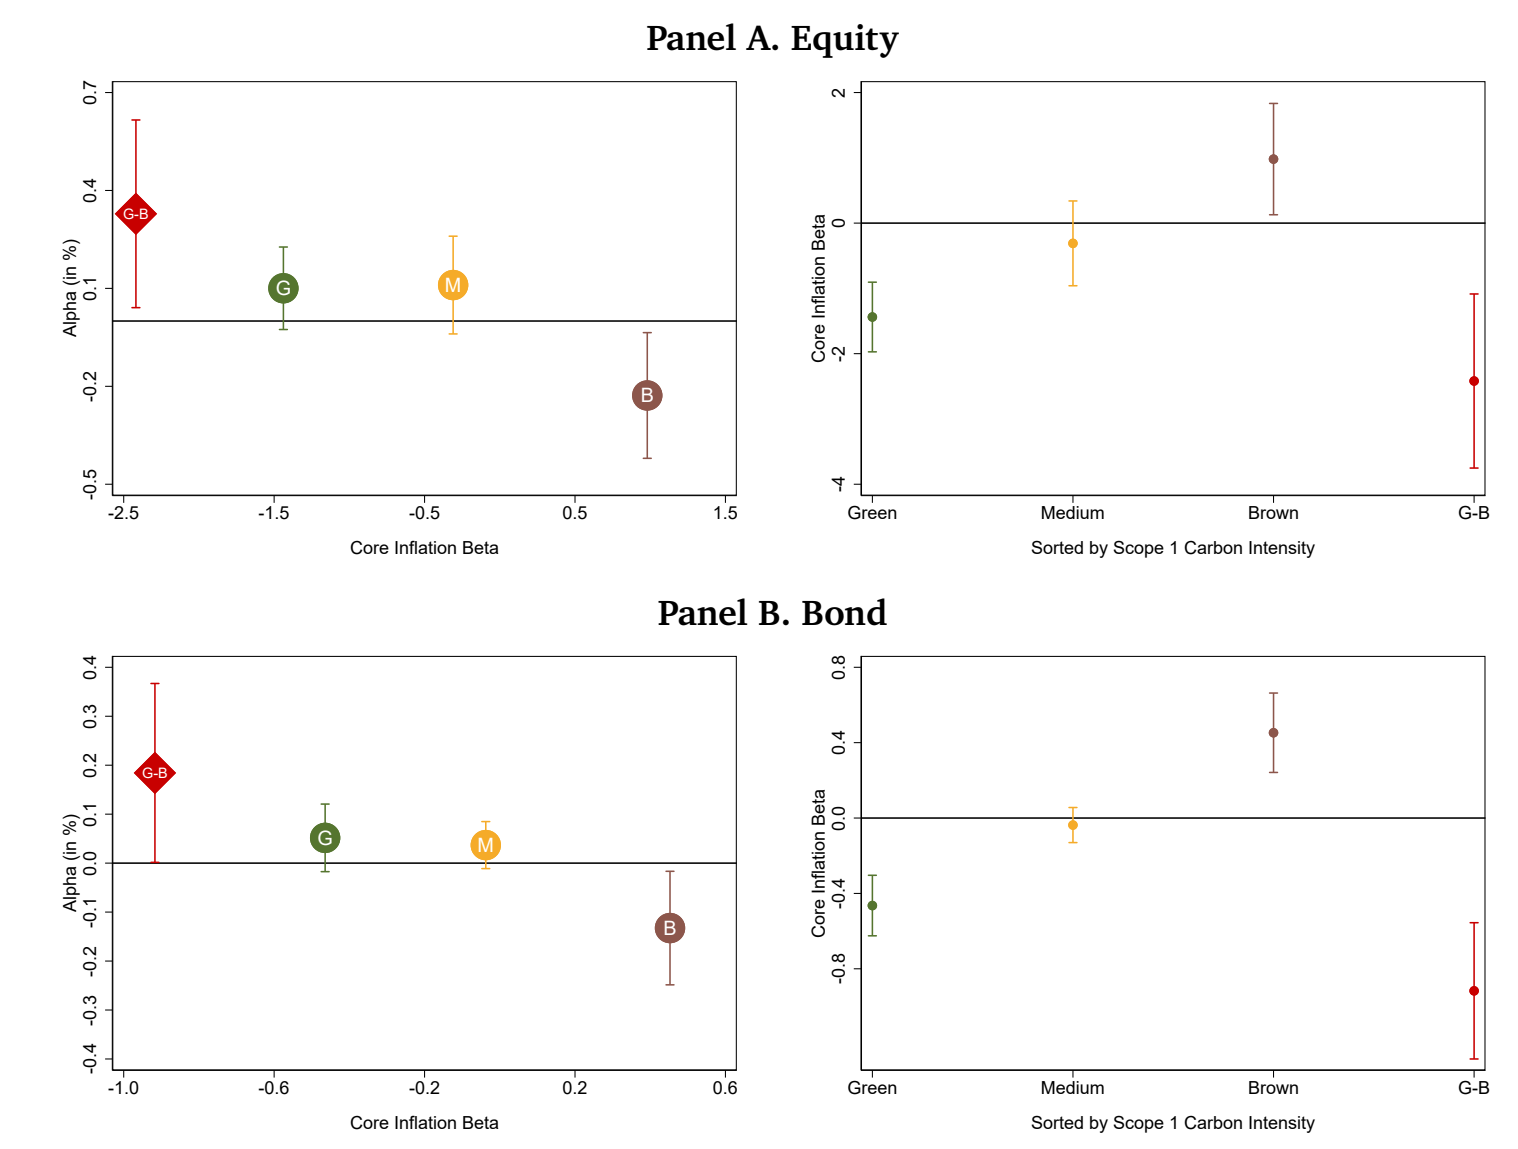
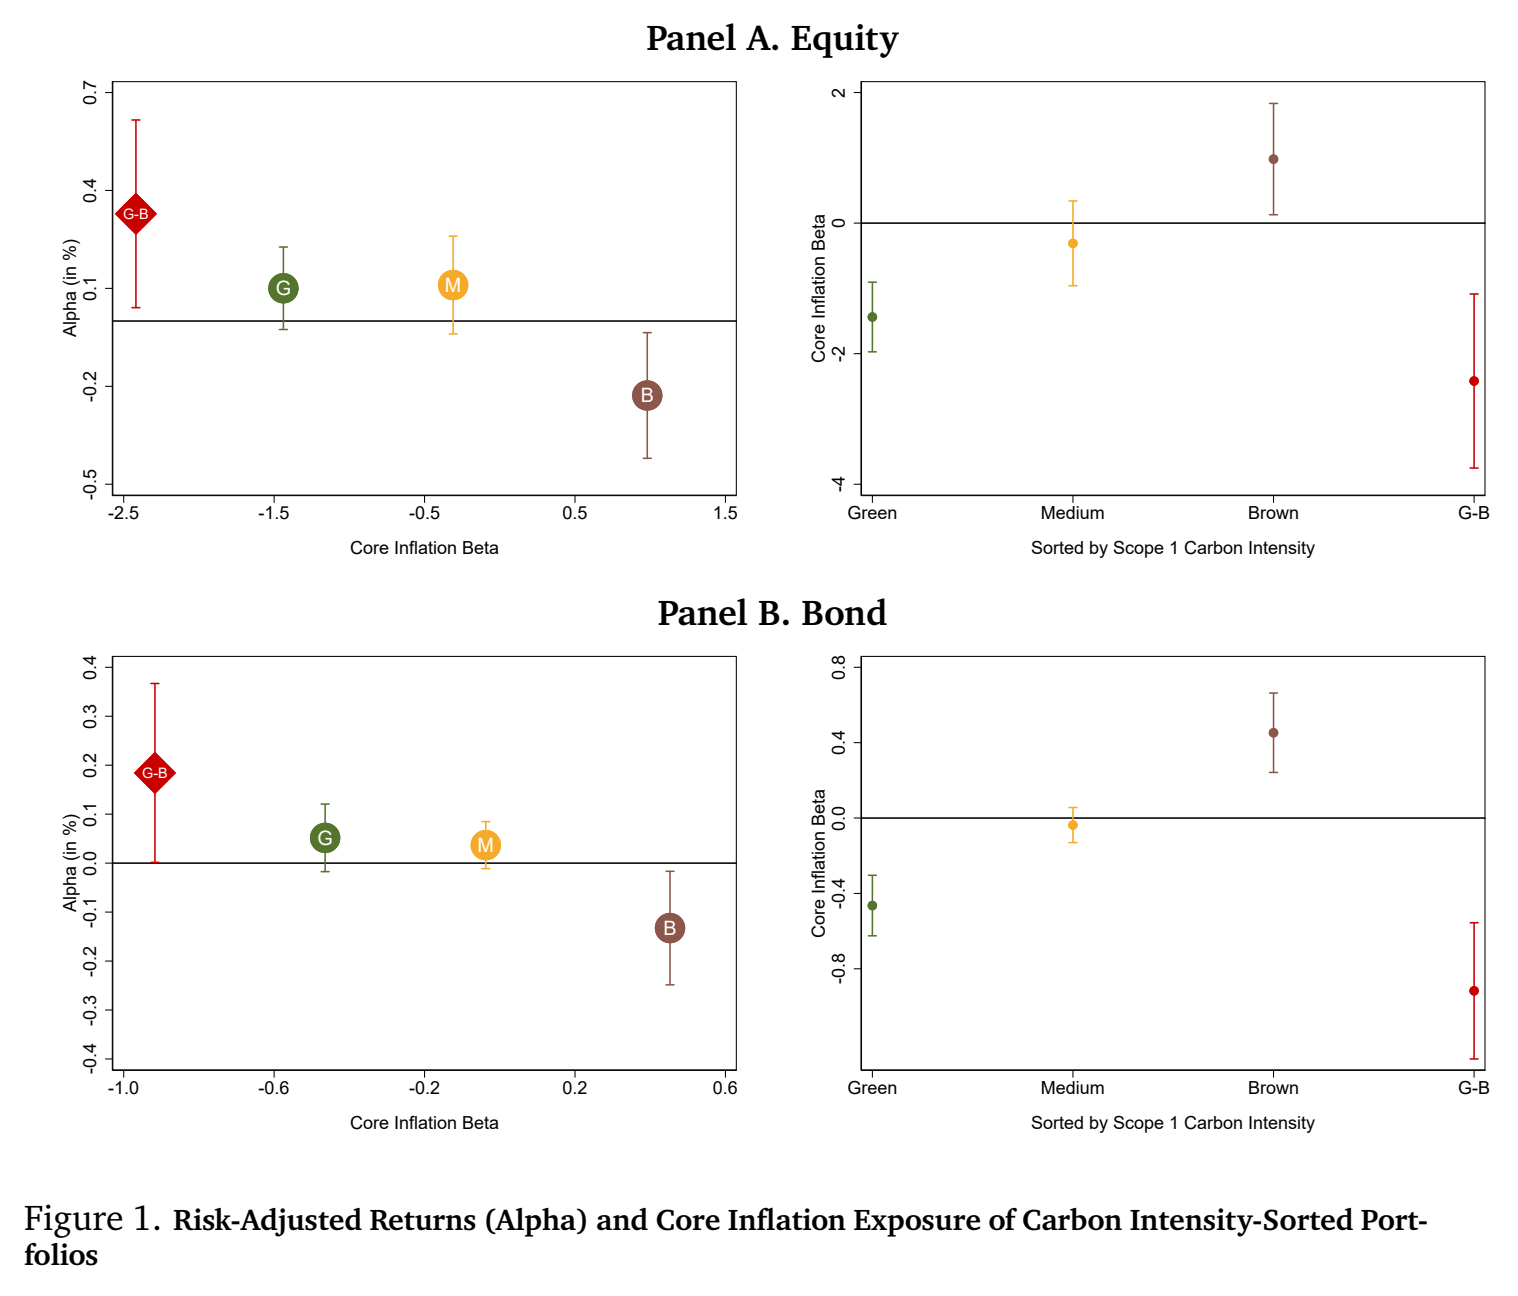
Add files via upload

diff --git a/index.html b/index.html
@@ -6,4 +6,4 @@
 <body><a class="skip" href="#main">Skip to content</a><header class="site-header"><div class="header-inner"><a class="wordmark" href="index.html">Yuyi He<span>Finance · CUHK</span></a><nav aria-label="Main navigation"><a href="index.html" class="nav-link active" aria-current="page">About</a><a href="research.html" class="nav-link">Research</a><a href="teaching.html" class="nav-link">Teaching</a><a href="activities.html" class="nav-link">Activities</a><a href="cv.html" class="nav-link">CV</a></nav></div></header><main id="main" class="page about"><section class="hero"><div class="intro"><h1>Yuyi He <span class="chinese-name" lang="zh-Hans">(何昱颐)</span></h1>
 <p class="affiliation">Ph.D. Candidate in Finance, The Chinese University of Hong Kong</p><p class="identity-email"><a href="mailto:yuyi.he@link.cuhk.edu.hk" class="">yuyi.he@link.cuhk.edu.hk</a></p>
 <p class="bio">Welcome! I am currently a fifth-year Ph.D. candidate in Finance at the Chinese University of Hong Kong (CUHK) Business School. Before CUHK, I received my Master’s degree in Finance and Bachelor’s degree in Management from Université Paris Dauphine–PSL in France.</p><p class="intro-interests"><span>Research interests:</span> Asset pricing, climate finance, fixed income, and inflation risk.</p>
-<div class="profile-links" aria-label="Academic profiles"><a href="assets/Yuyi_He_CV.pdf" class="">CV</a><a href="https://papers.ssrn.com/Sol3/Cf_Dev/AbsByAuth.cfm?per_id=6292540" class="">SSRN</a><a href="https://scholar.google.com/citations?user=6RpZBDgAAAAJ&amp;hl=zh-CN" class="">Google Scholar</a><a href="https://orcid.org/0009-0005-7481-2452" class="">ORCID</a></div></div><figure class="portrait"><img src="assets/portrait.jpg" alt="Portrait of Yuyi He" width="880" height="1100" fetchpriority="high"></figure></section><section class="home-research"><div class="section-heading"><h2>Working papers</h2><a href="research.html" class="">View all research →</a></div><a class="paper-preview" href="research.html#greenium"><span class="number">01</span><div><h3>Is Greenium a Reflection of Core Inflation Risk?</h3></div><span class="arrow" aria-hidden="true">↗</span></a><a class="paper-preview" href="research.html#disaster"><span class="number">02</span><div><h3>Who Bears the Climate Risk? State Guarantees and the Pricing of Physical Hazard in the Municipal Bond Market</h3></div><span class="arrow" aria-hidden="true">↗</span></a><a class="paper-preview" href="research.html#china"><span class="number">03</span><div><h3>Beyond Size and Value in China: A Stochastic Discount Factor from Sixty Characteristics</h3></div><span class="arrow" aria-hidden="true">↗</span></a></section></main><footer><div><span>© 2026 Yuyi He</span><span>Updated October 2026</span><a href="mailto:yuyi.he@link.cuhk.edu.hk" class="">yuyi.he@link.cuhk.edu.hk</a></div></footer></body></html>
+<div class="profile-links" aria-label="Academic profiles"><a href="assets/Yuyi_He_CV.pdf" class="">CV</a><a href="https://papers.ssrn.com/Sol3/Cf_Dev/AbsByAuth.cfm?per_id=6292540" class="">SSRN</a><a href="https://scholar.google.com/citations?user=6RpZBDgAAAAJ&amp;hl=zh-CN" class="">Google Scholar</a><a href="https://orcid.org/0009-0005-7481-2452" class="">ORCID</a></div></div><figure class="portrait"><img src="assets/portrait.jpg" alt="Portrait of Yuyi He" width="880" height="1100" fetchpriority="high"></figure></section><section class="home-research"><div class="section-heading"><h2>Working papers</h2><a href="research.html" class="">View all research →</a></div><a class="paper-preview" href="research.html#greenium"><span class="number">01</span><div><h3>Is Greenium a Reflection of Core Inflation Risk?<span class="preview-coauthors"> with Zhenyu Gao, Chanik Jo, and Yoshio Nozawa</span></h3><p>Green assets carry greater core inflation risk, and accounting for that exposure reduces the measured greenium.</p></div><span class="arrow" aria-hidden="true">↗</span></a><a class="paper-preview" href="research.html#disaster"><span class="number">02</span><div><h3>Who Bears the Climate Risk? State Guarantees and the Pricing of Physical Hazard in the Municipal Bond Market<span class="preview-coauthors"> with Changhyun Ahn and Chanik Jo</span></h3><p>State guarantees shift most of the pricing of local physical hazard away from municipal borrowers.</p></div><span class="arrow" aria-hidden="true">↗</span></a><a class="paper-preview" href="research.html#china"><span class="number">03</span><div><h3>Beyond Size and Value in China: A Stochastic Discount Factor from Sixty Characteristics<span class="preview-coauthors"> with Kiryoung Lee, Chanik Jo, and Gang Li</span></h3><p>Liquidity and volatility characteristics drive the out-of-sample performance of machine-learning discount factors for Chinese A shares.</p></div><span class="arrow" aria-hidden="true">↗</span></a></section></main><footer><div><span>© 2026 Yuyi He</span><span>Updated October 2026</span><a href="mailto:yuyi.he@link.cuhk.edu.hk" class="">yuyi.he@link.cuhk.edu.hk</a></div></footer></body></html>

diff --git a/assets/style.css b/assets/style.css
@@ -23,3 +23,4 @@
 .figure-content .result-figure{margin-top:8px}.figure-content{padding-bottom:22px}
 @media(max-width:800px){.hero{grid-template-columns:minmax(0,1fr) 210px;gap:32px}.hero h1{font-size:44px}}
 @media(max-width:600px){.hero{padding:28px 0 34px;gap:23px}.hero h1{font-size:42px;letter-spacing:-1px}.hero .affiliation{font-size:15px}.hero .bio{font-size:15px;margin-top:22px}.identity-email{font-size:14px}.intro-interests{font-size:14px}.profile-links{gap:12px 22px}.page-intro{padding:32px 0 22px}.page-intro h1{font-size:21px}.paper-presentations{font-size:12px}.home-research{padding-top:27px;margin-bottom:35px}}
+.paper-preview .preview-coauthors{font:14px/1.65 var(--sans);color:var(--muted);letter-spacing:0}
